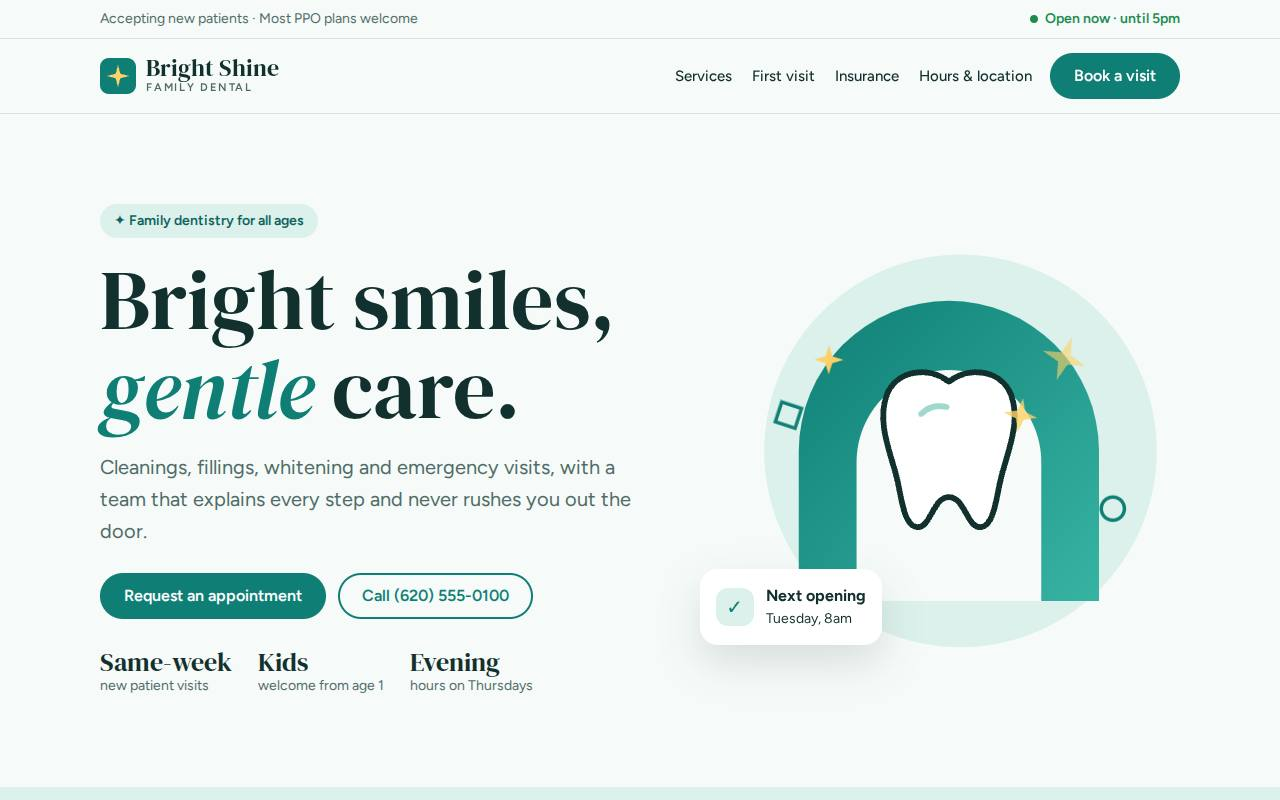
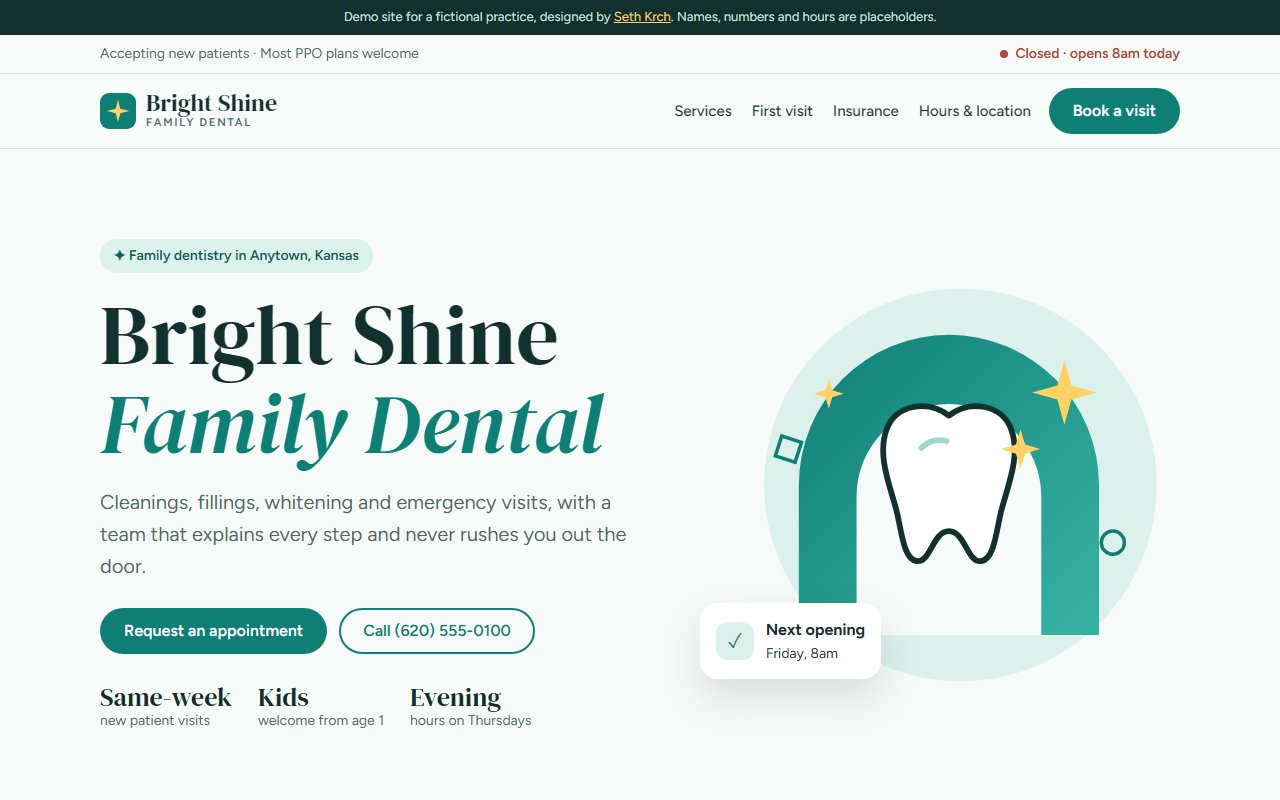
Three-tier pricing, tagline rewrites, accessibility fixes, new email
- Pricing: $20 home page, $150 full site, $300 full site with a Python
  backend, plus $25 a month. Running costs for backend sites billed at cost.
- Kit and Bright Shine: replace slogan headings with plain facts
  (Krch Auto keeps its headline).
- Contrast and focus fixes on the kit, Bright Shine and Singularity;
  live regions for the kit toast and booking messages.
- Contact email is now seth@krch.dev.
- Re-shot the Bright Shine carousel thumbnail.

Claude-Session: https://claude.ai/code/session_01GReesn7ZLErwW4u6PoCMwe

diff --git a/kit/index.html b/kit/index.html
@@ -34,13 +34,15 @@
   --k-body: "Barlow", system-ui, sans-serif;
 }
 .kit[data-theme="dental"] { --k-bg: #f4faf8; --k-ink: #12312e; --k-muted: #557571; --k-line: #d3e5e0; --k-accent: #0f7f76; --k-soft: #dcf1ec; --k-radius: 18px; --k-pill: 999px; --k-head: "DM Serif Display", Georgia, serif; --k-head-case: none; --k-head-weight: 400; --k-body: "Figtree", system-ui, sans-serif; }
-.kit[data-theme="cafe"] { --k-bg: #fbf5ec; --k-ink: #2b1d14; --k-muted: #7a6656; --k-line: #ead9c4; --k-accent: #b5541c; --k-soft: #f6e1cf; --k-radius: 12px; --k-pill: 12px; --k-head: "Fraunces", Georgia, serif; --k-head-case: none; --k-head-weight: 600; --k-body: "Instrument Sans", system-ui, sans-serif; }
+.kit[data-theme="cafe"] { --k-bg: #fbf5ec; --k-ink: #2b1d14; --k-muted: #6b5646; --k-line: #ead9c4; --k-accent: #b5541c; --k-soft: #f6e1cf; --k-radius: 12px; --k-pill: 12px; --k-head: "Fraunces", Georgia, serif; --k-head-case: none; --k-head-weight: 600; --k-body: "Instrument Sans", system-ui, sans-serif; }
 .kit[data-theme="salon"] { --k-bg: #faf6f8; --k-ink: #2a1b26; --k-muted: #7a6573; --k-line: #ead9e3; --k-accent: #7a3e6c; --k-soft: #f1e0ec; --k-radius: 2px; --k-pill: 999px; --k-head: "Cormorant Garamond", Georgia, serif; --k-head-case: none; --k-head-weight: 600; --k-body: "Instrument Sans", system-ui, sans-serif; }
 
 * { box-sizing: border-box; }
 body { margin: 0; background: var(--bg); color: var(--ink); font: 400 16px/1.55 var(--f-ui); }
 a { color: inherit; }
 :focus-visible { outline: 2px solid var(--peach); outline-offset: 3px; }
+.kit :focus-visible { outline-color: var(--k-ink); }
+.kit .phone__bar :focus-visible { outline-color: var(--k-bg); outline-offset: -4px; }
 .in { max-width: 1240px; margin-inline: auto; padding-inline: var(--gut); }
 .mono { font-family: var(--f-mono); font-size: 12px; letter-spacing: .14em; text-transform: uppercase; }
 
@@ -102,7 +104,7 @@ a { color: inherit; }
 
 /* search */
 .search { position: relative; max-width: 520px; }
-.search__field { display: flex; align-items: center; gap: 10px; background: var(--k-surface); border: 2px solid var(--k-line); border-radius: var(--k-pill); padding: 4px 6px 4px 16px; transition: border-color .2s, box-shadow .2s; }
+.search__field { display: flex; align-items: center; gap: 10px; background: var(--k-surface); border: 2px solid var(--k-muted); border-radius: var(--k-pill); padding: 4px 6px 4px 16px; transition: border-color .2s, box-shadow .2s; }
 .search__field:focus-within { border-color: var(--k-accent); box-shadow: 0 0 0 4px var(--k-soft); }
 .search__field svg { width: 20px; height: 20px; color: var(--k-muted); flex: none; }
 .search input { flex: 1; min-width: 0; border: 0; outline: 0; background: transparent; font: 400 17px/1 var(--k-body); color: var(--k-ink); padding: 10px 0; }
@@ -218,7 +220,7 @@ a { color: inherit; }
 .kform { display: grid; grid-template-columns: 1fr 1fr; gap: 12px; }
 .fl { position: relative; }
 .fl.full { grid-column: 1 / -1; }
-.fl input, .fl textarea { width: 100%; font: 400 16px/1.3 var(--k-body); color: var(--k-ink); background: var(--k-surface); border: 2px solid var(--k-line); border-radius: var(--k-radius); padding: 22px 14px 8px; outline: 0; transition: border-color .2s; }
+.fl input, .fl textarea { width: 100%; font: 400 16px/1.3 var(--k-body); color: var(--k-ink); background: var(--k-surface); border: 2px solid var(--k-muted); border-radius: var(--k-radius); padding: 22px 14px 8px; outline: 0; transition: border-color .2s; }
 .fl textarea { min-height: 90px; resize: vertical; }
 .fl label { position: absolute; left: 16px; top: 15px; color: var(--k-muted); pointer-events: none; transition: all .15s; font-size: 16px; }
 .fl input:focus, .fl textarea:focus { border-color: var(--k-accent); }
@@ -279,7 +281,7 @@ a { color: inherit; }
 
   <!-- 01 before/after slider -->
   <section class="spec spec--wide" aria-labelledby="h-compare">
-    <div class="spec__bar"><h2 id="h-compare"><span>01</span>The upgrade</h2><span class="mono" style="color:var(--dim)">Drag the handle</span></div>
+    <div class="spec__bar"><h2 id="h-compare"><span>01</span>Before and after</h2><span class="mono" style="color:var(--dim)">Drag the handle</span></div>
     <div class="kit">
       <div class="compare" id="compare">
         <div class="cmp-old" aria-hidden="true">
@@ -348,7 +350,7 @@ a { color: inherit; }
     <div class="kit" style="display:grid;place-items:center">
       <div class="phone">
         <div class="phone__screen"><h3 data-k="name">Krch Auto</h3><p data-k="sub">Full-service repair for cars, trucks and tractors.</p><div class="blk"></div><div class="blk"></div><div class="blk" style="height:40px"></div></div>
-        <div class="toast" id="toast">Calling… (demo)</div>
+        <div class="toast" id="toast" role="status">Calling… (demo)</div>
         <div class="phone__bar">
           <button type="button" data-toast="Calling… (demo)"><svg viewBox="0 0 24 24" aria-hidden="true"><path d="M5 3h4l2 5-2.5 1.5a11 11 0 0 0 6 6L16 13l5 2v4a2 2 0 0 1-2 2A17 17 0 0 1 3 5a2 2 0 0 1 2-2z" fill="none" stroke="currentColor" stroke-width="2"/></svg>Call</button>
           <button type="button" data-toast="Opening Maps… (demo)"><svg viewBox="0 0 24 24" aria-hidden="true"><g fill="none" stroke="currentColor" stroke-width="2"><path d="M12 22s7-6.5 7-12a7 7 0 1 0-14 0c0 5.5 7 12 7 12z"/><circle cx="12" cy="10" r="2.5"/></g></svg>Directions</button>
@@ -394,7 +396,7 @@ a { color: inherit; }
       <div class="days" id="days" role="group" aria-label="Day"></div>
       <div class="slots" id="slots" role="group" aria-label="Time"></div>
       <button class="kb kb--primary" type="button" id="bookBtn">Request this time</button>
-      <div class="booked" id="booked" hidden></div>
+      <div class="booked" id="booked" role="status" hidden></div>
     </div>
     <div class="spec__note">Sample availability.</div>
   </section>
@@ -406,7 +408,7 @@ a { color: inherit; }
       <div class="rev">
         <div>
           <div class="rev__score">4.9</div>
-          <div class="stars" aria-label="4.9 out of 5">★★★★★</div>
+          <div class="stars" role="img" aria-label="4.9 out of 5">★★★★★</div>
           <div class="bars" aria-hidden="true"><div>5<span><i style="width:88%"></i></span></div><div>4<span><i style="width:9%"></i></span></div><div>3<span><i style="width:2%"></i></span></div><div>2<span><i style="width:1%"></i></span></div><div>1<span><i style="width:0"></i></span></div></div>
         </div>
         <div>
@@ -443,7 +445,7 @@ a { color: inherit; }
 
 </main>
 
-<footer class="foot mono"><div class="in"><span>© Seth Krch</span><span>sethkrch@gmail.com</span></div></footer>
+<footer class="foot mono"><div class="in"><span>© Seth Krch</span><span>seth@krch.dev</span></div></footer>
 
 <script>
 (() => {
@@ -475,7 +477,7 @@ a { color: inherit; }
       prices: { Maintenance: [["Oil change, gas", "$49"], ["Oil change, diesel", "$129"], ["Tire rotation", "$25"]], Repair: [["Diagnostic scan", "$89"], ["Front brake pads", "from $180"], ["Battery install", "$30 + part"]], "Heavy duty": [["Semi inspection", "$150"], ["Tractor service", "Call"], ["Air brake adjust", "from $95"]] }
     },
     dental: {
-      name: "Bright Shine", headline: 'Bright smiles, <em>gentle</em> care.', sub: "Family dentistry for all ages. New patients seen the same week.",
+      name: "Bright Shine", headline: 'Family dentistry, <em>Monday to Friday</em>', sub: "Patients of all ages. New patients seen the same week.",
       notice: "Now open late Thursdays until 7pm.",
       hours: [null, [8, 17], [8, 17], [8, 17], [8, 19], [8, 14], null],
       search: [["Teeth cleaning", "Preventive"], ["Whitening", "Cosmetic"], ["Fillings", "Restorative"], ["Crowns", "Restorative"], ["Kids' first visit", "Pediatric"], ["Toothache", "Emergency"], ["Night guard", "Preventive"], ["X-rays", "Preventive"]],
@@ -485,7 +487,7 @@ a { color: inherit; }
       prices: { Preventive: [["Exam & cleaning", "$129"], ["X-rays", "$60"], ["Fluoride", "$30"]], Cosmetic: [["Whitening, in office", "$350"], ["Take-home kit", "$199"], ["Bonding", "from $150"]], Restorative: [["Filling", "from $140"], ["Crown", "from $950"], ["Night guard", "$300"]] }
     },
     cafe: {
-      name: "Main Street Café", headline: 'Coffee, pie and <em>good company.</em>', sub: "Breakfast all day, daily specials and pie from scratch.",
+      name: "Main Street Café", headline: 'Breakfast and lunch, <em>open every day</em>', sub: "Breakfast all day, daily specials and pie from scratch.",
       notice: "Today's special: chicken-fried steak with mashed potatoes.",
       hours: [[8, 13], [6, 14], [6, 14], [6, 14], [6, 14], [6, 20], [7, 14]],
       search: [["Breakfast burrito", "Breakfast"], ["Biscuits & gravy", "Breakfast"], ["Cinnamon roll", "Bakery"], ["Latte", "Coffee"], ["Daily special", "Lunch"], ["Pie of the day", "Dessert"], ["Catering", "Events"], ["Burger", "Lunch"]],
@@ -495,7 +497,7 @@ a { color: inherit; }
       prices: { Breakfast: [["Biscuits & gravy", "$8"], ["Breakfast burrito", "$9"], ["Short stack", "$7"]], Lunch: [["Daily special", "$12"], ["Cheeseburger & fries", "$11"], ["Soup & sandwich", "$10"]], Bakery: [["Cinnamon roll", "$4"], ["Slice of pie", "$5"], ["Whole pie", "$22"]] }
     },
     salon: {
-      name: "Willow & Co.", headline: 'Look good. <em>Feel better.</em>', sub: "Cuts, color and styling by appointment. Walk-ins when we can.",
+      name: "Willow & Co.", headline: 'Hair salon, <em>Tuesday to Saturday</em>', sub: "Cuts, color and styling by appointment. Walk-ins when we can.",
       notice: "Booking prom and wedding updos now. Spots fill fast.",
       hours: [null, null, [9, 18], [9, 18], [9, 19], [9, 18], [8, 14]],
       search: [["Women's haircut", "Cuts"], ["Men's cut", "Cuts"], ["Kids' cut", "Cuts"], ["Color", "Color"], ["Highlights", "Color"], ["Blowout", "Styling"], ["Updo", "Styling"], ["Brow wax", "Extras"]],

diff --git a/index.html b/index.html
@@ -123,13 +123,20 @@ main, header, footer { position: relative; z-index: 1; }
 .steps p { margin: 0; color: var(--dim); }
 
 /* ---------- pricing ---------- */
-.prices { display: grid; grid-template-columns: repeat(2, minmax(0, 1fr)); gap: var(--gut); }
-.price { border: 1px solid var(--line-hi); padding: clamp(22px, 3vw, 36px); background: linear-gradient(160deg, rgb(125 148 255 / .06), transparent 50%); }
-.price__amt { font: 800 clamp(54px, 7vw, 88px)/1 var(--f-display); letter-spacing: -.04em; margin: 12px 0 6px; }
-.price__amt small { font-size: .3em; color: var(--dim); font-family: var(--f-body); }
-.price ul { list-style: none; margin: 18px 0 0; padding: 0; }
-.price li { padding: 9px 0; border-top: 1px solid var(--line); color: #c3c9d8; }
-.price li::before { content: "◇"; color: var(--peach); margin-right: 10px; }
+.prices { display: grid; grid-template-columns: repeat(3, minmax(0, 1fr)); gap: clamp(14px, 2vw, 24px); align-items: stretch; }
+.price { display: flex; flex-direction: column; border: 1px solid var(--line-hi); padding: clamp(22px, 2.6vw, 32px); background: linear-gradient(160deg, rgb(125 148 255 / .06), transparent 50%); }
+.price--mid { border-color: var(--peach); background: linear-gradient(160deg, rgb(255 154 107 / .10), transparent 55%); }
+.price h3 { margin: 0; font: 700 26px/1.05 var(--f-display); letter-spacing: -.015em; }
+.price__for { margin: 8px 0 0; color: var(--dim); font-size: 16px; min-height: 3.2em; }
+.price__amt { font: 800 clamp(54px, 6vw, 80px)/1 var(--f-display); letter-spacing: -.04em; margin: 18px 0 6px; }
+.price ul { list-style: none; margin: 18px 0 0; padding: 0; flex: 1; }
+.price li { padding: 10px 0 10px 24px; border-top: 1px solid var(--line); color: #c3c9d8; position: relative; font-size: 16px; }
+.price li::before { content: "◇"; color: var(--peach); position: absolute; left: 0; }
+.price li.inc { color: var(--ink); }
+.price__go { margin-top: 22px; display: block; text-align: center; text-decoration: none; padding: 13px 16px; border: 1px solid var(--line-hi); }
+.price__go:hover { border-color: var(--peach); color: var(--peach); }
+.price--mid .price__go { background: var(--peach); border-color: var(--peach); color: var(--bg); }
+.price--mid .price__go:hover { background: var(--ink); border-color: var(--ink); color: var(--bg); }
 .fine { color: var(--dim); font-size: 15px; margin-top: 18px; }
 
 /* ---------- contact ---------- */
@@ -148,6 +155,7 @@ footer .in { display: flex; justify-content: space-between; gap: 12px; flex-wrap
   .tile:nth-child(2) { border-right: 0; }
   .tile:nth-child(-n+2) { border-bottom: 1px solid var(--line); }
   .steps, .prices { grid-template-columns: 1fr; }
+  .price__for { min-height: 0; }
   .hero__sub { text-align: left; }
   .hero__corner.r { display: none; }
 }
@@ -215,7 +223,7 @@ footer .in { display: flex; justify-content: space-between; gap: 12px; flex-wrap
         <h2 id="offer-t">Included</h2>
       </div>
       <div class="tiles">
-        <div class="tile"><svg viewBox="0 0 44 44" aria-hidden="true"><g fill="none" stroke="currentColor" stroke-width="1.4"><rect x="6" y="8" width="32" height="24"/><path d="M6 14h32M16 38h12M22 32v6"/><circle cx="22" cy="23" r="5"/></g></svg><h3>Design</h3><p>One-page site, designed per business.</p></div>
+        <div class="tile"><svg viewBox="0 0 44 44" aria-hidden="true"><g fill="none" stroke="currentColor" stroke-width="1.4"><rect x="6" y="8" width="32" height="24"/><path d="M6 14h32M16 38h12M22 32v6"/><circle cx="22" cy="23" r="5"/></g></svg><h3>Design</h3><p>Designed per business, or built from the element kit.</p></div>
         <div class="tile"><svg viewBox="0 0 44 44" aria-hidden="true"><g fill="none" stroke="currentColor" stroke-width="1.4"><path d="M22 40s12-11 12-21a12 12 0 1 0-24 0c0 10 12 21 12 21z"/><circle cx="22" cy="19" r="4"/></g></svg><h3>Google listing</h3><p>Google Business Profile setup and linking.</p></div>
         <div class="tile"><svg viewBox="0 0 44 44" aria-hidden="true"><g fill="none" stroke="currentColor" stroke-width="1.4"><rect x="13" y="4" width="18" height="36" rx="3"/><path d="M19 34h6"/><path d="M18 17l4-4 4 4M22 13v10"/></g></svg><h3>Mobile</h3><p>Tap to call, directions and live hours.</p></div>
         <div class="tile"><svg viewBox="0 0 44 44" aria-hidden="true"><g fill="none" stroke="currentColor" stroke-width="1.4"><circle cx="22" cy="22" r="16"/><path d="M22 12v10l7 5"/></g></svg><h3>Updates</h3><p>Hours, closures and edits on request.</p></div>
@@ -255,24 +263,56 @@ footer .in { display: flex; justify-content: space-between; gap: 12px; flex-wrap
       </div>
       <div class="prices">
         <div class="price ticks">
-          <span class="mono" style="color:var(--dim)">Setup · one time</span>
+          <h3>Home page</h3>
+          <p class="price__for">A single page with the basics a customer looks for.</p>
+          <div class="price__amt">$20</div>
+          <span class="mono" style="color:var(--dim)">One time</span>
+          <ul>
+            <li>One home page</li>
+            <li>Built from one of our styles</li>
+            <li>Name, services, hours, phone and map</li>
+            <li>Live on your domain</li>
+          </ul>
+          <a class="price__go mono" href="mailto:seth@krch.dev?subject=Home%20page">Ask about this</a>
+        </div>
+        <div class="price price--mid ticks">
+          <h3>Full site</h3>
+          <p class="price__for">A complete static site, designed and built for one business.</p>
           <div class="price__amt">$150</div>
-          <ul><li>One-page site</li><li>Domain connection</li><li>Google Business listing</li><li>Call, map and hours</li></ul>
+          <span class="mono" style="color:var(--dim)">One time</span>
+          <ul>
+            <li>Multi-page site, built by hand for your business</li>
+            <li>Pick a style from the <a href="kit/">element kit</a>, or describe your own</li>
+            <li>Google Business Profile set up</li>
+            <li>Your domain connected and the site live</li>
+            <li>Changes until you approve it</li>
+          </ul>
+          <a class="price__go mono" href="mailto:seth@krch.dev?subject=Full%20site">Ask about this</a>
         </div>
         <div class="price ticks">
-          <span class="mono" style="color:var(--dim)">Care · monthly</span>
-          <div class="price__amt">$25<small> / month</small></div>
-          <ul><li>Hosting and security</li><li>Hours and holiday updates</li><li>Small edits</li><li>Cancel anytime</li></ul>
+          <h3>Full site with a backend</h3>
+          <p class="price__for">For businesses that sell, book or keep customer accounts online.</p>
+          <div class="price__amt">$300</div>
+          <span class="mono" style="color:var(--dim)">One time</span>
+          <ul>
+            <li class="inc">Everything in Full site</li>
+            <li>Server and database written in Python</li>
+            <li>Online store and card payments</li>
+            <li>Customer accounts and logins</li>
+            <li>Bookings, orders, memberships and forms</li>
+            <li>An admin page to edit products and content</li>
+          </ul>
+          <a class="price__go mono" href="mailto:seth@krch.dev?subject=Full%20site%20with%20a%20backend">Ask about this</a>
         </div>
       </div>
-      <p class="fine">Extra pages, booking and menus quoted separately.</p>
+      <p class="fine">Hosting and updates are $25 a month after launch; cancel anytime. For a site with a backend, server, database and payment processor fees are billed at cost on top of that. No domain yet? We can register one for you.</p>
     </div>
   </section>
 
   <section class="sec contact" id="contact" aria-labelledby="contact-t" style="padding-top:0">
     <div class="in">
       <span class="mono" style="color:var(--peach)" id="contact-t">06 · Contact</span>
-      <a class="contact__mail" id="mail" href="mailto:sethkrch@gmail.com">sethkrch@gmail.com</a>
+      <a class="contact__mail" id="mail" href="mailto:seth@krch.dev">seth@krch.dev</a>
       <div class="contact__row">
         <button class="ghost" id="copy" type="button">Copy address</button>
         <span class="mono" style="color:var(--dim)" id="copyNote" aria-live="polite"></span>
@@ -291,7 +331,7 @@ footer .in { display: flex; justify-content: space-between; gap: 12px; flex-wrap
   /* ---------- copy email ---------- */
   const note = document.getElementById("copyNote");
   document.getElementById("copy").addEventListener("click", () => {
-    const addr = "sethkrch@gmail.com";
+    const addr = "seth@krch.dev";
     const fallback = () => { const r = document.createRange(); r.selectNodeContents(document.getElementById("mail")); const s = getSelection(); s.removeAllRanges(); s.addRange(r); note.textContent = "Selected. Press copy."; };
     try { navigator.clipboard.writeText(addr).then(() => (note.textContent = "Copied " + addr), fallback); } catch (e) { fallback(); }
   });

diff --git a/work/bright-shine/index.html b/work/bright-shine/index.html
@@ -31,7 +31,8 @@
 html { scroll-behavior: smooth; }
 body { margin: 0; background: var(--bg); color: var(--ink); font: 400 17px/1.6 var(--f-body); }
 a { color: inherit; }
-:focus-visible { outline: 3px solid var(--shine); outline-offset: 3px; }
+:focus-visible { outline: 3px solid var(--ink); outline-offset: 3px; }
+.demo :focus-visible, footer :focus-visible, .callbar :focus-visible { outline-color: var(--shine); }
 .in { max-width: 1160px; margin-inline: auto; padding-inline: var(--gut); }
 h1, h2, h3 { font-family: var(--f-display); font-weight: 400; line-height: 1.05; text-wrap: balance; margin: 0; }
 
@@ -41,7 +42,7 @@ h1, h2, h3 { font-family: var(--f-display); font-weight: 400; line-height: 1.05;
 .topbar .in { display: flex; justify-content: space-between; gap: 10px; flex-wrap: wrap; padding-block: 8px; }
 .status { display: inline-flex; align-items: center; gap: 7px; font-weight: 600; }
 .status::before { content: ""; width: 8px; height: 8px; border-radius: 50%; background: currentColor; }
-.status.is-open { color: #1c8a4e; }
+.status.is-open { color: #177a45; }
 .status.is-closed { color: #b1452f; }
 
 .nav { position: sticky; top: env(safe-area-inset-top, 0px); z-index: 20; background: rgb(246 251 249 / .92); backdrop-filter: blur(8px); border-bottom: 1px solid var(--line); }
@@ -76,7 +77,7 @@ h1, h2, h3 { font-family: var(--f-display); font-weight: 400; line-height: 1.05;
 
 .sec { padding-block: clamp(56px, 8vw, 100px); }
 .sec--mint { background: var(--mint); }
-.kicker { font-weight: 600; font-size: 14px; letter-spacing: .14em; text-transform: uppercase; color: var(--teal); margin: 0 0 10px; }
+.kicker { font-weight: 600; font-size: 14px; letter-spacing: .14em; text-transform: uppercase; color: var(--teal-dk); margin: 0 0 10px; }
 .sec h2 { font-size: clamp(36px, 4.6vw, 56px); margin-bottom: 14px; }
 .lede { color: var(--muted); max-width: 56ch; margin: 0 0 36px; }
 .svc { display: grid; grid-template-columns: repeat(3, minmax(0, 1fr)); gap: 18px; }
@@ -97,7 +98,7 @@ h1, h2, h3 { font-family: var(--f-display); font-weight: 400; line-height: 1.05;
 .chips li { background: var(--card); border: 1px solid var(--line); border-radius: 999px; padding: 7px 14px; font-size: 15px; }
 .team { display: grid; grid-template-columns: repeat(2, minmax(0, 1fr)); gap: 14px; }
 .team div { background: var(--card); border: 1px solid var(--line); border-radius: 18px; padding: 18px; display: flex; gap: 12px; align-items: center; }
-.team span.av { flex: none; width: 52px; height: 52px; border-radius: 50%; background: linear-gradient(135deg, var(--mint), #b9e3da); display: grid; place-items: center; color: var(--teal); font: 400 20px/1 var(--f-display); }
+.team span.av { flex: none; width: 52px; height: 52px; border-radius: 50%; background: linear-gradient(135deg, var(--mint), #b9e3da); display: grid; place-items: center; color: var(--teal-dk); font: 400 20px/1 var(--f-display); }
 .team b { display: block; }
 .team small { color: var(--muted); }
 
@@ -162,8 +163,8 @@ footer a { color: var(--shine); }
   <section class="hero">
     <div class="in">
       <div>
-        <span class="eyebrow">✦ Family dentistry for all ages</span>
-        <h1>Bright smiles, <em>gentle</em> care.</h1>
+        <span class="eyebrow">✦ Family dentistry in Anytown, Kansas</span>
+        <h1>Bright Shine <em>Family Dental</em></h1>
         <p>Cleanings, fillings, whitening and emergency visits, with a team that explains every step and never rushes you out the door.</p>
         <div class="hero__actions">
           <a class="btn btn--teal" href="#book">Request an appointment</a>
@@ -175,8 +176,8 @@ footer a { color: var(--shine); }
           <span><b>Evening</b>hours on Thursdays</span>
         </div>
       </div>
-      <div class="art" aria-hidden="true">
-        <svg viewBox="0 0 400 400">
+      <div class="art">
+        <svg viewBox="0 0 400 400" aria-hidden="true">
           <defs>
             <linearGradient id="g1" x1="0" y1="0" x2="1" y2="1"><stop offset="0" stop-color="#0f7f76"/><stop offset="1" stop-color="#37b3a3"/></linearGradient>
           </defs>
@@ -201,8 +202,8 @@ footer a { color: var(--shine); }
   <section class="sec sec--mint" id="services">
     <div class="in">
       <p class="kicker">Services</p>
-      <h2>Everything your smile needs</h2>
-      <p class="lede">Routine care and the bigger fixes, all under one roof.</p>
+      <h2>Preventive, cosmetic and emergency care</h2>
+      <p class="lede">Checkups, repairs and cosmetic work, all done in this office.</p>
       <div class="svc">
         <article><svg viewBox="0 0 48 48" aria-hidden="true"><path d="M24 8c-5-4-13-3-15 3s0 13 2 19c2 6 2 13 5 13s4-8 8-8 5 8 8 8 3-7 5-13c2-6 4-13 2-19s-10-7-15-3z" fill="none" stroke="currentColor" stroke-width="2.6" stroke-linejoin="round"/></svg><h3>Cleanings &amp; exams</h3><p>Checkups, X-rays and cleanings every six months.</p></article>
         <article><svg viewBox="0 0 48 48" aria-hidden="true"><g fill="none" stroke="currentColor" stroke-width="2.6"><path d="M24 6l3 11 11 3-11 3-3 11-3-11-11-3 11-3z" stroke-linejoin="round"/><path d="M38 32l1.5 4.5L44 38l-4.5 1.5L38 44l-1.5-4.5L32 38l4.5-1.5z" stroke-linejoin="round"/></g></svg><h3>Whitening</h3><p>In-office and take-home options for a brighter smile.</p></article>
@@ -217,7 +218,7 @@ footer a { color: var(--shine); }
   <section class="sec" id="first-visit">
     <div class="in">
       <p class="kicker">Your first visit</p>
-      <h2>Simple from the first call</h2>
+      <h2>What happens at a first visit</h2>
       <p class="lede">New to the practice? Here's what to expect.</p>
       <ol class="steps">
         <li><h3>Book online or call</h3><p>Pick a time that works. We'll confirm by text.</p></li>
@@ -231,7 +232,7 @@ footer a { color: var(--shine); }
     <div class="in split">
       <div>
         <p class="kicker">Insurance &amp; payment</p>
-        <h2>We'll handle the paperwork</h2>
+        <h2>Plans and payments accepted</h2>
         <p class="lede" style="margin-bottom:22px">We file claims for you and explain your coverage before treatment.</p>
         <ul class="chips"><li>Most PPO plans</li><li>Medicaid (KanCare)</li><li>HSA &amp; FSA cards</li><li>Payment plans</li><li>Cash discounts</li></ul>
       </div>
@@ -251,14 +252,14 @@ footer a { color: var(--shine); }
     <div class="in visit">
       <div class="panel">
         <p class="kicker">Hours &amp; location</p>
-        <h2 style="font-size:clamp(30px,3.4vw,40px)">Come see us</h2>
+        <h2 style="font-size:clamp(30px,3.4vw,40px)">Open Monday to Friday</h2>
         <p style="margin:12px 0 4px">123 Main Street<br>Anytown, Kansas</p>
         <p style="margin:0 0 8px"><span class="status" data-status></span></p>
         <table class="hours" data-hours></table>
       </div>
       <div class="panel" id="book">
         <p class="kicker">Request an appointment</p>
-        <h2 style="font-size:clamp(30px,3.4vw,40px);margin-bottom:18px">We'll call you back</h2>
+        <h2 style="font-size:clamp(30px,3.4vw,40px);margin-bottom:18px">Callback within one business day</h2>
         <form id="bookForm">
           <label>Name<input id="f-name" name="name" autocomplete="name" required></label>
           <label>Phone<input id="f-phone" name="phone" type="tel" autocomplete="tel" required></label>
@@ -266,7 +267,7 @@ footer a { color: var(--shine); }
           <label>Best time<select id="f-time" name="time"><option>Morning</option><option>Afternoon</option><option>Thursday evening</option></select></label>
           <label class="full">Anything we should know?<textarea id="f-notes" name="notes"></textarea></label>
           <button class="btn btn--teal" type="submit">Send request</button>
-          <p class="formnote" id="formNote">We'll reply within one business day.</p>
+          <p class="formnote" id="formNote" role="status">The office calls back to confirm a time.</p>
         </form>
       </div>
     </div>
@@ -275,7 +276,7 @@ footer a { color: var(--shine); }
   <section class="sec sec--mint">
     <div class="in" style="max-width:820px">
       <p class="kicker">Questions</p>
-      <h2 style="margin-bottom:24px">Good to know</h2>
+      <h2 style="margin-bottom:24px">Common questions</h2>
       <details><summary>Do you see kids?</summary><p>Yes. We recommend a first visit by age one, and we keep it short and fun.</p></details>
       <details><summary>What if I have a dental emergency?</summary><p>Call as early as you can. We hold time each day for toothaches, chips and broken teeth.</p></details>
       <details><summary>I'm nervous about the dentist. Can you help?</summary><p>Tell us when you book. We'll go at your pace, explain each step, and stop whenever you need.</p></details>

diff --git a/work/singularity/index.html b/work/singularity/index.html
@@ -22,7 +22,7 @@
   --void:   #0c0a11;   /* purple-black ground */
   --panel:  #120e19;   /* raised panel */
   --ink:    #b9b0c4;   /* lilac-grey fill type */
-  --dim:    #6f6680;   /* secondary text, ticks */
+  --dim:    #827994;   /* secondary text, ticks */
   --violet: #7d45a8;   /* frames, echo outlines */
   --glow:   #b98cff;   /* hover / live accent */
   --teal:   #63e0d6;   /* deep-well highlight */
@@ -88,7 +88,7 @@ a { color: inherit; }
 .bar nav { display: flex; gap: 6px; margin-left: auto; flex-wrap: wrap; }
 .bar nav a { text-decoration: none; padding: 4px 10px; border: 1px solid transparent; color: var(--dim); }
 .bar nav a:hover { color: var(--ink); border-color: var(--violet); }
-.bar nav a i { font-style: normal; color: var(--violet); margin-right: 6px; }
+.bar nav a i { font-style: normal; color: var(--glow); margin-right: 6px; }
 .bar__clock { color: var(--dim); font-variant-numeric: tabular-nums; }
 
 /* ---------- framed panel ---------- */
@@ -144,6 +144,8 @@ a { color: inherit; }
   background: var(--ink); color: var(--void); transition: background .15s, color .15s;
 }
 .btn:hover { background: var(--glow); }
+.btn:focus-visible { outline-offset: -4px; outline-color: var(--void); }
+.btn--ghost:focus-visible { outline-color: var(--glow); }
 .btn--ghost { background: transparent; color: var(--ink); box-shadow: inset 0 0 0 1px var(--dim); }
 .btn--ghost:hover { background: var(--violet); color: var(--ink); }
 
@@ -195,7 +197,7 @@ section { scroll-margin-top: 70px; }
 .proto dd { color: var(--ink); text-align: right; }
 .flow { list-style: none; margin: 0; padding: 0; display: grid; grid-template-columns: repeat(5, minmax(0, 1fr)); gap: 0; counter-reset: f; }
 .flow li { position: relative; border: 1px solid #2a2036; margin-left: -1px; padding: 10px 10px 9px; counter-increment: f; }
-.flow li::before { content: "0" counter(f); display: block; color: var(--violet); margin-bottom: 6px; }
+.flow li::before { content: "0" counter(f); display: block; color: var(--glow); margin-bottom: 6px; }
 .flow li b { display: block; font-weight: 400; color: var(--ink); }
 .flow li span { color: var(--dim); font-size: 11px; }
 .flow li:not(:last-child)::after { content: "▸"; position: absolute; right: -7px; top: 50%; transform: translateY(-50%); color: var(--teal); z-index: 1; background: var(--panel); line-height: 1; }
@@ -537,9 +539,9 @@ section { scroll-margin-top: 70px; }
       </div>
       <div class="channel frame"><div class="frame__in">
         <span class="hud" style="color:var(--dim)">Email</span>
-        <span class="channel__mail" id="mail">sethkrch@gmail.com</span>
+        <span class="channel__mail" id="mail">seth@krch.dev</span>
         <div class="channel__row">
-          <a class="btn" href="mailto:sethkrch@gmail.com">Send email →</a>
+          <a class="btn" href="mailto:seth@krch.dev">Send email →</a>
           <button class="btn btn--ghost" id="copy" type="button" style="border:0;cursor:pointer">Copy address</button>
           <span class="channel__note hud" id="copyNote" aria-live="polite">Describe the process you want automated. I'll reply with questions and a proposed approach.</span>
         </div>
